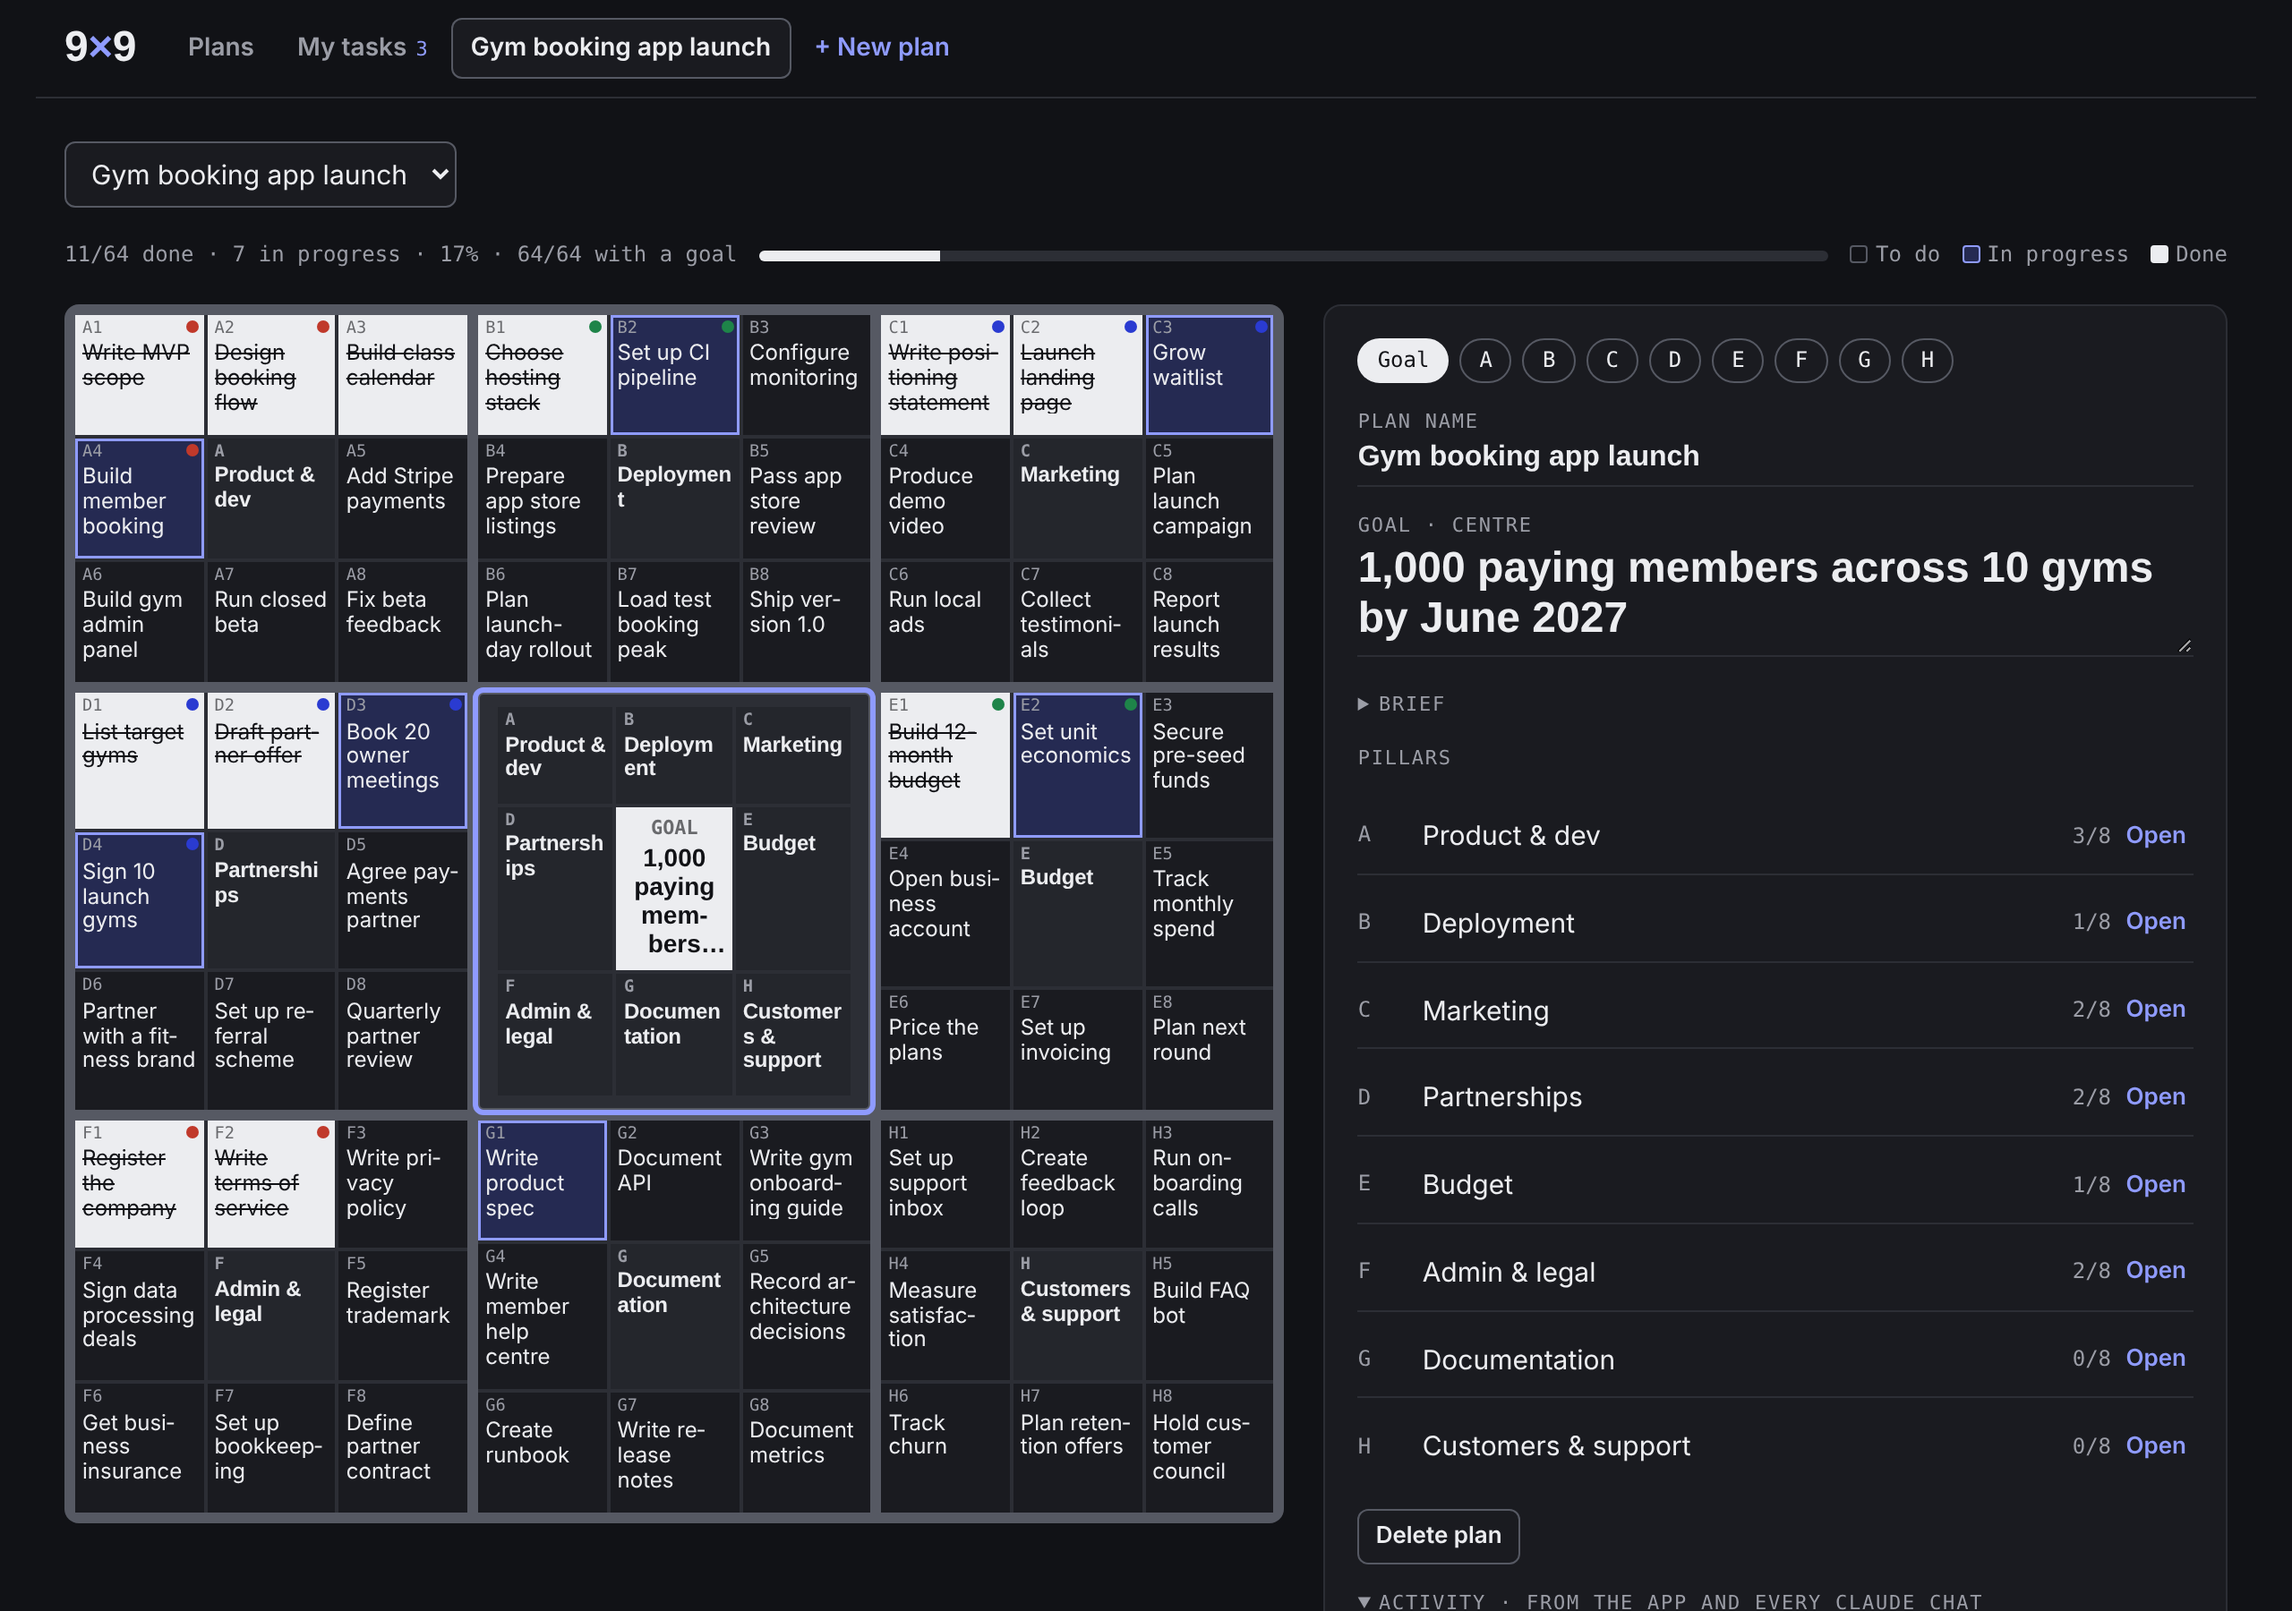
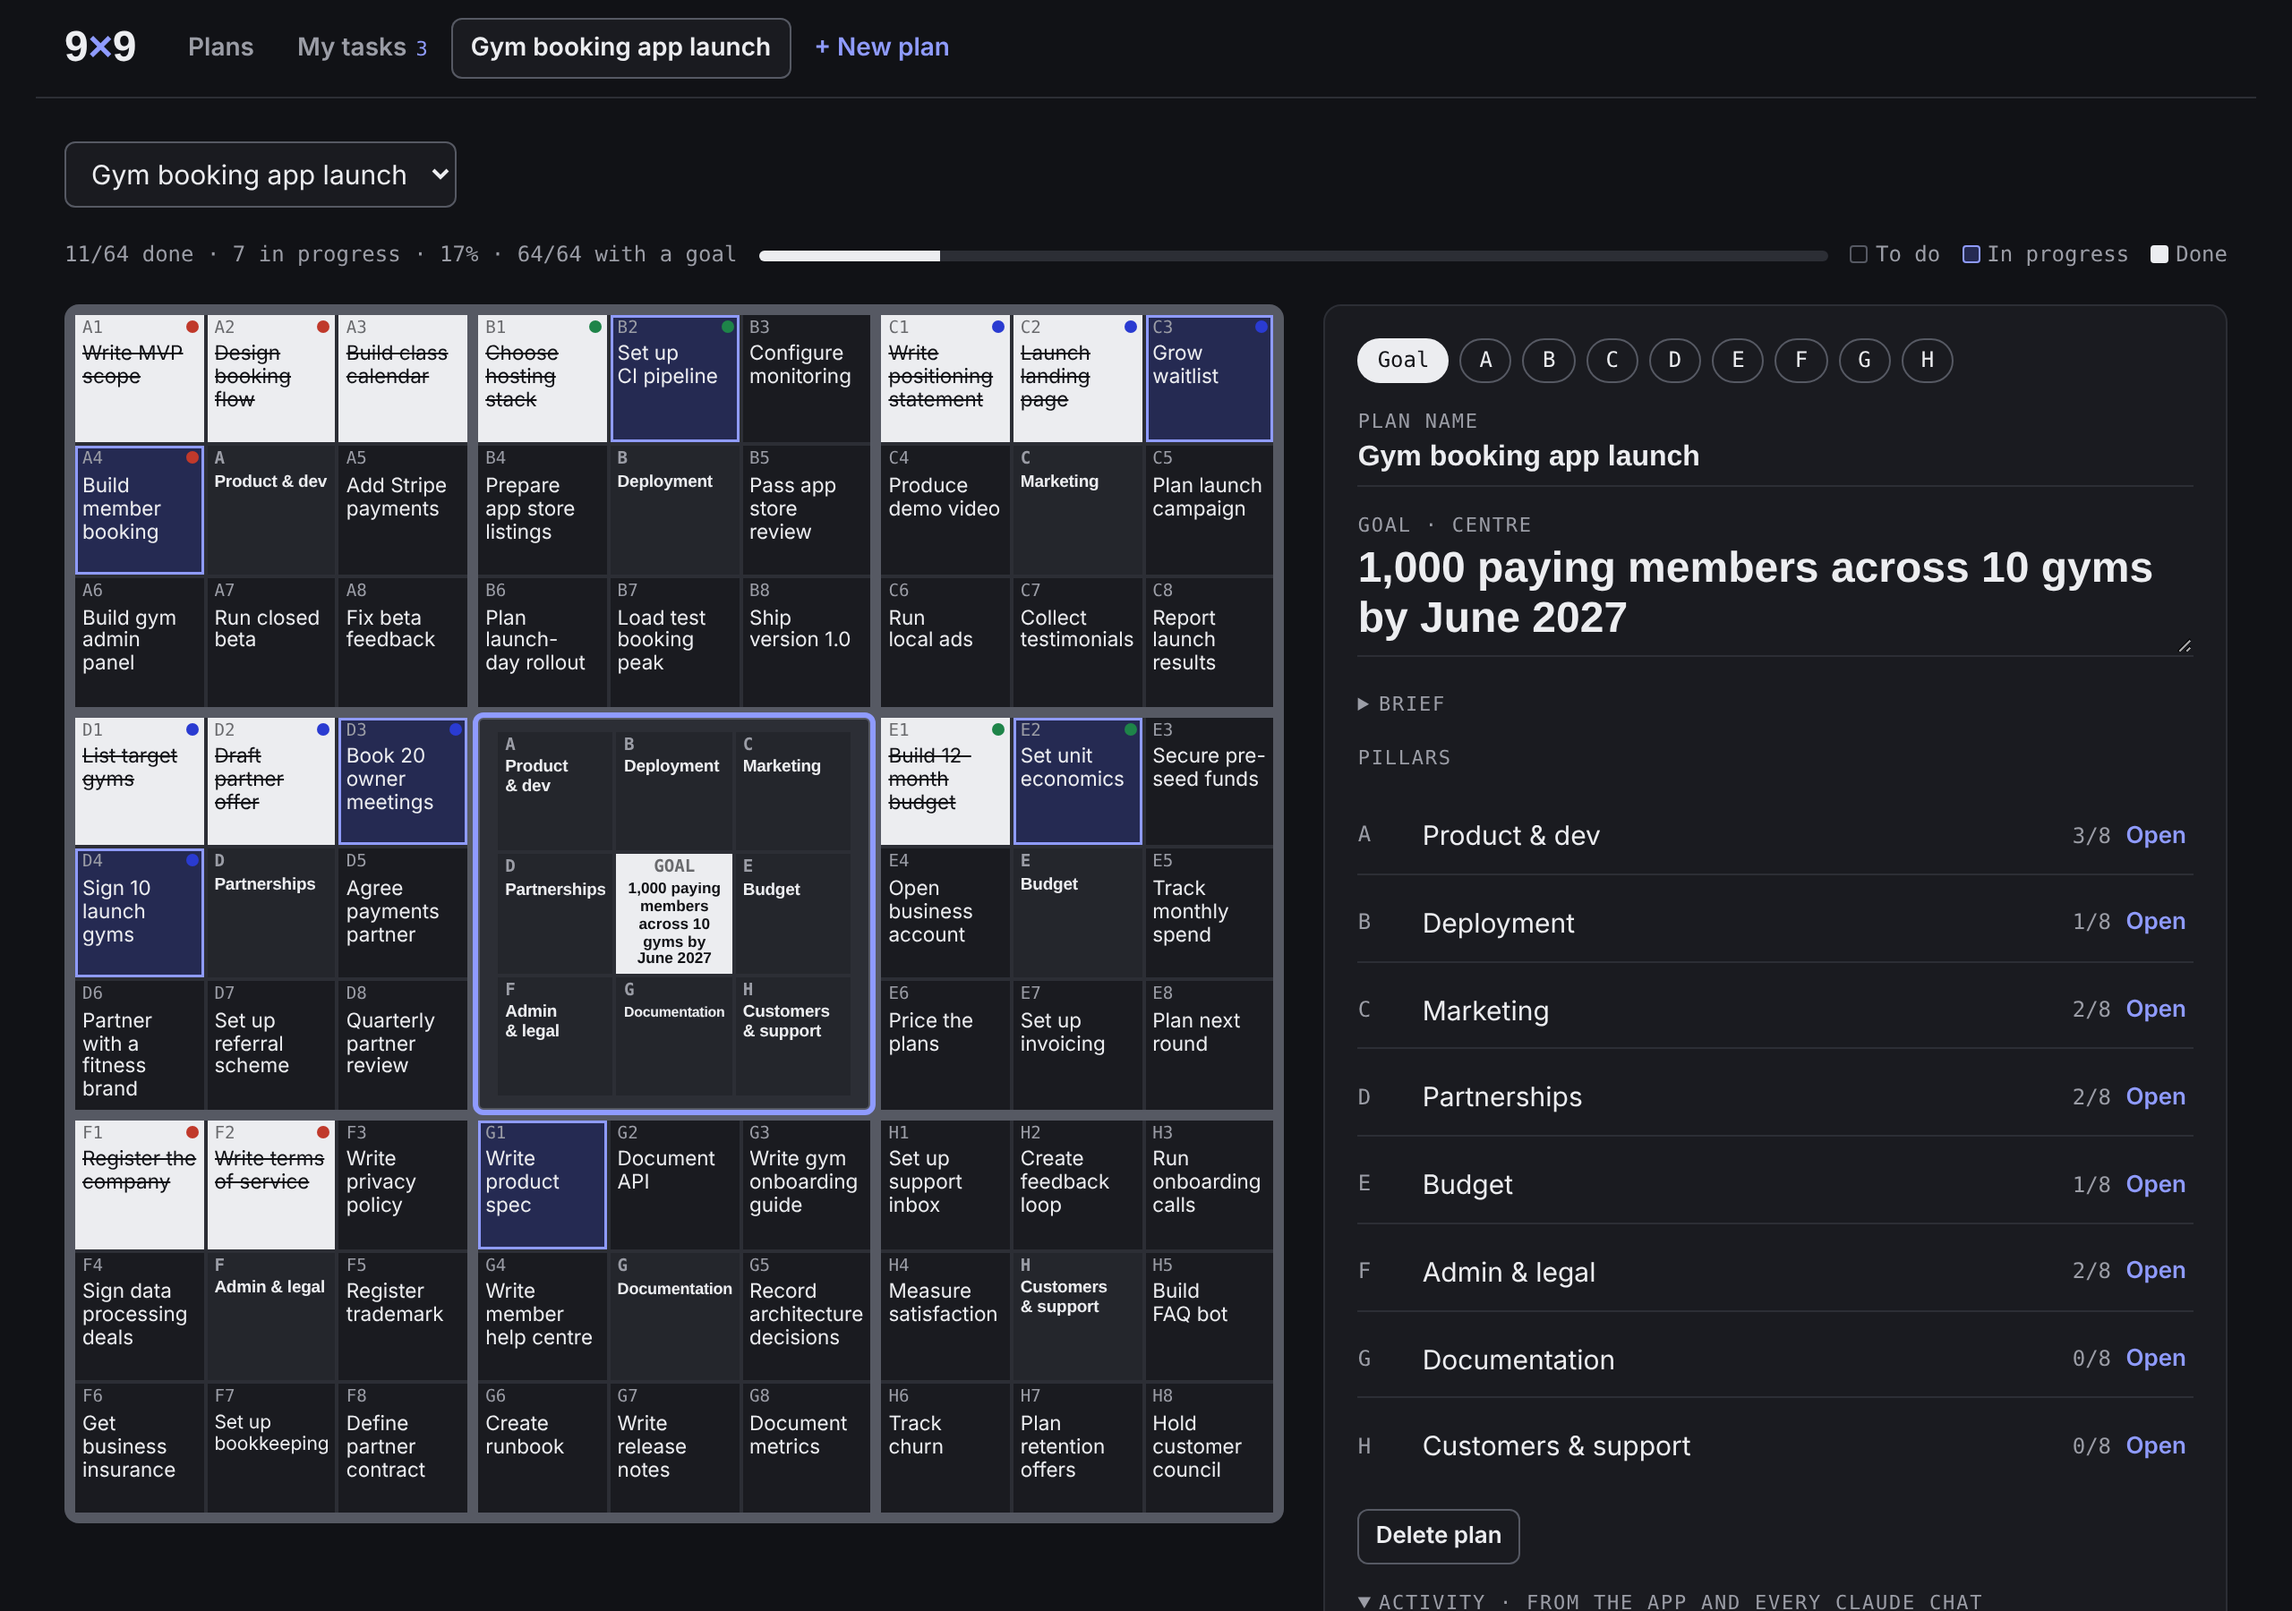
Grid: fit text inside every square
Whole words only, no mid-word splits or hyphens; each kind of square
shares one size, outliers shrink on their own; equal rows; phones keep
a readable grid that scrolls sideways. Refreshed screenshots and ZIP.

Claude-Session: https://claude.ai/code/session_01SXuN4rHWT8FirLUfgHheWm

diff --git a/9x9-planner/assets/planner.html b/9x9-planner/assets/planner.html
@@ -49,19 +49,25 @@ button{cursor:pointer}
 
 /* main layout */
 .main{display:grid;grid-template-columns:minmax(0,1.35fr) minmax(0,1fr);gap:22px;align-items:start}
-@media (max-width:900px){.main{grid-template-columns:1fr}}
+@media (max-width:900px){.main{grid-template-columns:minmax(0,1fr)}}
 
 /* the grid */
-.gridbox{overflow-x:auto}
-.board{display:grid;grid-template-columns:repeat(3,1fr);gap:6px;aspect-ratio:1;max-width:100%;min-width:330px;background:var(--rule-strong);padding:6px;border-radius:8px}
-.block{display:grid;grid-template-columns:repeat(3,1fr);gap:2px;background:var(--rule);border-radius:3px;outline:0 solid var(--accent);transition:outline-width .1s}
+.gridbox{overflow-x:auto;-webkit-overflow-scrolling:touch;display:grid;gap:6px}
+.gridhint{display:none;font-size:12px;color:var(--muted);margin:0}
+@media (max-width:640px){.gridhint{display:block}}
+.board{display:grid;grid-template-columns:repeat(3,minmax(0,1fr));grid-template-rows:repeat(3,minmax(0,1fr));gap:6px;aspect-ratio:1;max-width:100%;min-width:600px;background:var(--rule-strong);padding:6px;border-radius:8px}
+.block{display:grid;grid-template-columns:repeat(3,minmax(0,1fr));grid-template-rows:repeat(3,minmax(0,1fr));min-width:0;min-height:0;gap:2px;background:var(--rule);border-radius:3px;outline:0 solid var(--accent);transition:outline-width .1s}
 .block.sel{outline-width:3px}
-.cell{position:relative;background:var(--sheet);border:0;padding:3px 4px;text-align:left;display:flex;flex-direction:column;justify-content:flex-start;overflow:hidden;min-width:0;font-size:clamp(8px,1.05vw,12px);line-height:1.15}
-.cell .code{font-family:var(--f-mono);font-size:.78em;color:var(--muted);line-height:1}
-.cell .tx{display:-webkit-box;-webkit-line-clamp:4;-webkit-box-orient:vertical;overflow:hidden;overflow-wrap:break-word;hyphens:auto;-webkit-hyphens:auto;margin-top:2px}
+.cell{min-height:0;position:relative;background:var(--sheet);border:0;padding:3px 4px;text-align:left;display:flex;flex-direction:column;justify-content:flex-start;overflow:hidden;min-width:0;font-size:clamp(8px,1.05vw,12px);line-height:1.15}
+.cell .code{font-family:var(--f-mono);font-size:clamp(7px,.75vw,10px);color:var(--muted);line-height:1;flex:none}
+/* text is sized by fitBoard(): whole words only, shrunk until it sits inside the square */
+.cell .tx{display:block;flex:1 1 auto;min-height:0;overflow:hidden;overflow-wrap:normal;word-break:normal;hyphens:manual;margin-top:3px;line-height:1.14;text-wrap:balance}
+.cell .tx.clamp{display:-webkit-box;-webkit-box-orient:vertical;overflow-wrap:break-word}
 .cell.empty .tx{color:var(--rule-strong)}
 .cell.pil{background:var(--pillar);font-weight:700;font-family:var(--f-display);font-stretch:75%;letter-spacing:-.01em}
-.cell.goal{background:var(--goal);color:var(--goal-fg);font-weight:800;font-family:var(--f-display);font-stretch:80%;justify-content:center;text-align:center;font-size:clamp(9px,1.25vw,14px)}
+.cell.goal{background:var(--goal);color:var(--goal-fg);font-weight:800;font-family:var(--f-display);font-stretch:80%;text-align:center}
+.cell.goal .tx{flex:1 1 auto;display:flex;align-items:center;justify-content:center}
+.cell.goal .tx.clamp{display:-webkit-box;align-items:normal}
 .cell.goal .code{color:inherit;opacity:.6}
 .cell.s1{background:var(--accent-soft);box-shadow:inset 0 0 0 1.5px var(--accent)}
 .cell.s2{background:var(--done);color:var(--done-fg)}
@@ -69,7 +75,7 @@ button{cursor:pointer}
 .cell.s2 .tx{text-decoration:line-through;text-decoration-thickness:1px}
 .cell.hit{box-shadow:inset 0 0 0 2px var(--accent)}
 .cell:hover{filter:brightness(.97)}
-@media (max-width:520px){.cell .tx{-webkit-line-clamp:3}.cell{padding:2px 3px}}
+@media (max-width:520px){.cell{padding:2px 3px}}
 
 /* panel */
 .panel{background:var(--sheet);border:1px solid var(--rule);border-radius:10px;padding:18px;display:grid;gap:14px;min-width:0}
@@ -467,11 +473,12 @@ function render(){
   <div class="meter"><span>${s.done}/${s.total} done · ${s.doing} in progress · ${pct}% · ${p.pillars.flatMap(x=>x.tasks).filter(t=>t.t.trim()&&t.g.trim()).length}/${s.total} with a goal</span><div class="bar"><i style="width:${pct}%"></i></div>
     <span class="legend"><span><b></b>To do</span><span><b style="background:var(--accent-soft);border-color:var(--accent)"></b>In progress</span><span><b style="background:var(--done);border-color:var(--done)"></b>Done</span></span></div>
   <div class="main">
-    <div class="gridbox"><div class="board" id="board" lang="${esc((navigator.language||"en").slice(0,5))}">${board}</div></div>
+    <div class="gridbox"><div class="board" id="board">${board}</div><p class="gridhint">Swipe sideways to see the whole grid. Tap any square to open it.</p></div>
     <section class="panel" id="panel">${sel===4 ? centrePanel(p) : pillarPanel(p, idxOf(sel))}</section>
   </div>
   ${now.length ? `<section class="now"><h2>On the desk</h2><div class="nowlist">${now.map(n=>`<button class="nowitem${n.late?" late":""}" data-i="${n.i}" data-j="${n.j}"><span class="code">${L[n.i]}${n.j+1}${n.t.due?" · "+n.t.due:""}</span>${esc(n.t.t)}</button>`).join("")}</div></section>`:""}`;
   wire(p);
+  fitBoard();
 }
 
 function nav(){
@@ -609,6 +616,35 @@ function wirePicks(t){
   document.querySelectorAll("[data-pickid]").forEach(b => b.onclick = () => { t.o=b.dataset.pickid; ownPick=false; ownHits=[]; persist(cur); render(); });
 }
 // update the grid text while typing without stealing focus from the panel
+// Fit each square's text inside its box: largest common size per kind of square, whole words only;
+// squares that still don't fit shrink on their own, and only as a last resort clamp with an ellipsis.
+function fitBoard(){
+  const board = document.getElementById("board"); if (!board) return;
+  const cells = [...board.querySelectorAll(".cell")]; if (!cells.length) return;
+  const w = cells[0].clientWidth;
+  const kinds = { task:{max:Math.min(14, Math.max(8, w/6.4)), floor:Math.max(7, Math.min(9, w/7.5))}, pil:{max:Math.min(15, Math.max(8.5, w/5.8)), floor:Math.max(7, Math.min(9.5, w/7))}, goal:{max:Math.min(19, Math.max(9, w/4.6)), floor:Math.max(7, Math.min(10, w/6.5))} };
+  const groups = { task:[], pil:[], goal:[] };
+  cells.forEach(c => { const tx = c.querySelector(".tx"); tx.classList.remove("clamp"); tx.style.webkitLineClamp = ""; groups[c.classList.contains("goal") ? "goal" : c.classList.contains("pil") ? "pil" : "task"].push(tx); });
+  const fits = tx => tx.scrollWidth <= tx.clientWidth + 0.5 && tx.scrollHeight <= tx.clientHeight + 0.5;
+  for (const k in groups){
+    const g = groups[k], K = kinds[k]; if (!g.length) continue;
+    let size = K.floor;
+    // largest size at which nearly all squares of this kind fit; the few that don't shrink on their own below
+    const need = Math.ceil(g.length * 0.85);
+    for (let fs = K.max; fs >= K.floor; fs -= 0.5){ g.forEach(tx => tx.style.fontSize = fs + "px"); if (g.filter(fits).length >= need) { size = fs; break; } }
+    g.forEach(tx => tx.style.fontSize = size + "px");
+    g.filter(tx => !fits(tx)).forEach(tx => {
+      let lo = 6, hi = size, best = null;
+      for (let n = 0; n < 6; n++){ const mid = (lo + hi) / 2; tx.style.fontSize = mid + "px"; if (fits(tx)) { best = mid; lo = mid; } else hi = mid; }
+      if (best && best >= 6) { tx.style.fontSize = best + "px"; return; }
+      tx.style.fontSize = "6.5px"; tx.classList.add("clamp");
+      const lh = parseFloat(getComputedStyle(tx).lineHeight) || 8; tx.style.webkitLineClamp = String(Math.max(1, Math.floor(tx.clientHeight / lh)));
+    });
+  }
+}
+let fitRaf = 0; const fitSoon = () => { cancelAnimationFrame(fitRaf); fitRaf = requestAnimationFrame(fitBoard); };
+if (window.ResizeObserver) new ResizeObserver(fitSoon).observe(document.documentElement);
+if (document.fonts && document.fonts.ready) document.fonts.ready.then(fitSoon);
 function refreshBoardOnly(){
   const p=plans[cur];
   document.querySelectorAll("#board .cell").forEach(el=>{
@@ -618,6 +654,7 @@ function refreshBoardOnly(){
     else { const t=p.pillars[idxOf(b)].tasks[idxOf(c)]; tx=t.t||"—"; el.classList.toggle("empty",!t.t); }
     el.querySelector(".tx").textContent=tx;
   });
+  fitSoon();
 }
 
 /* ---------- Claude drafting ---------- */
